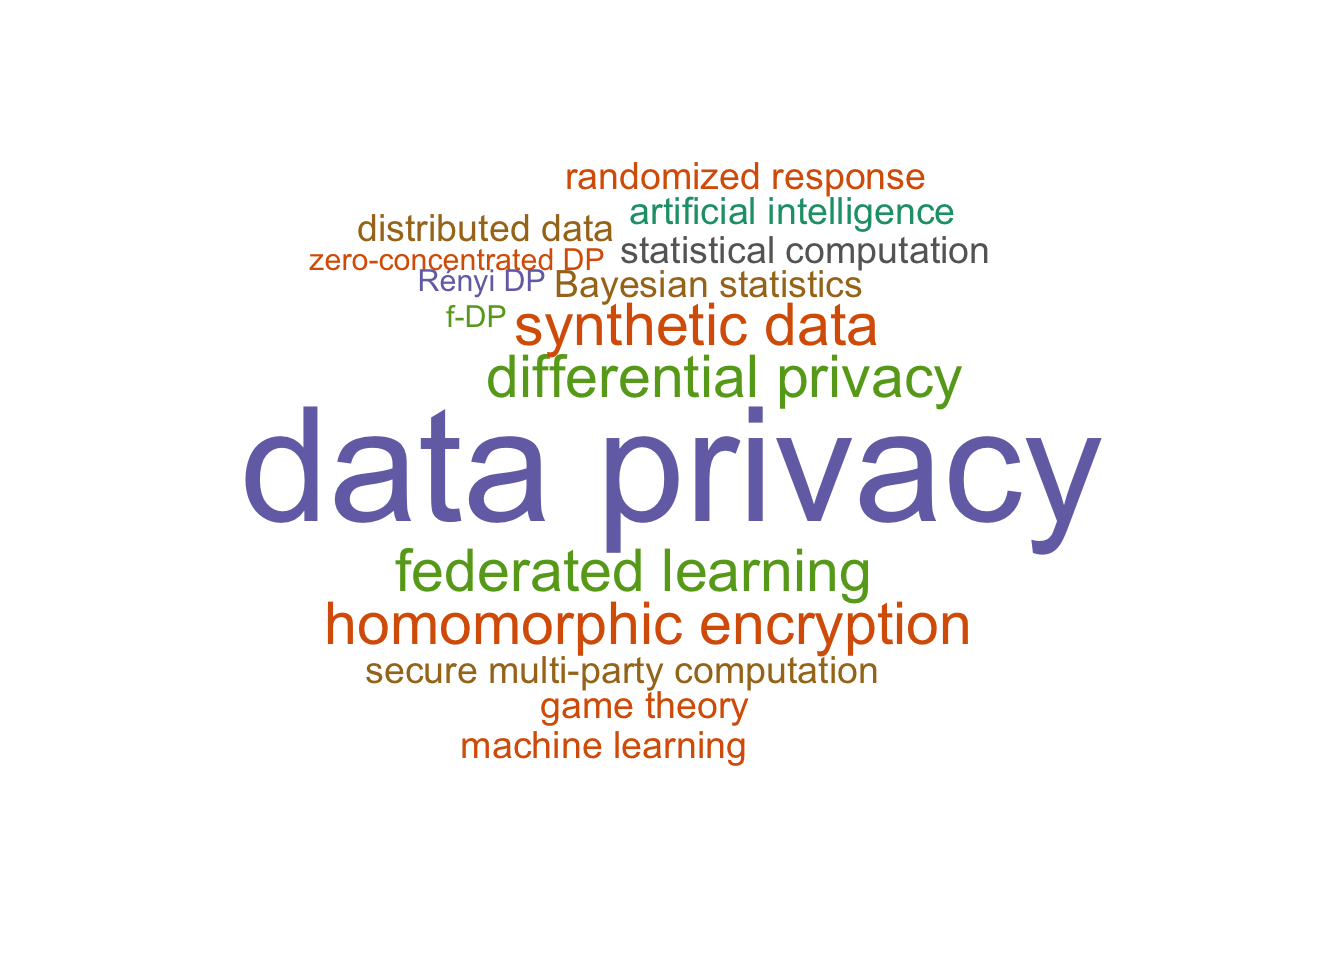
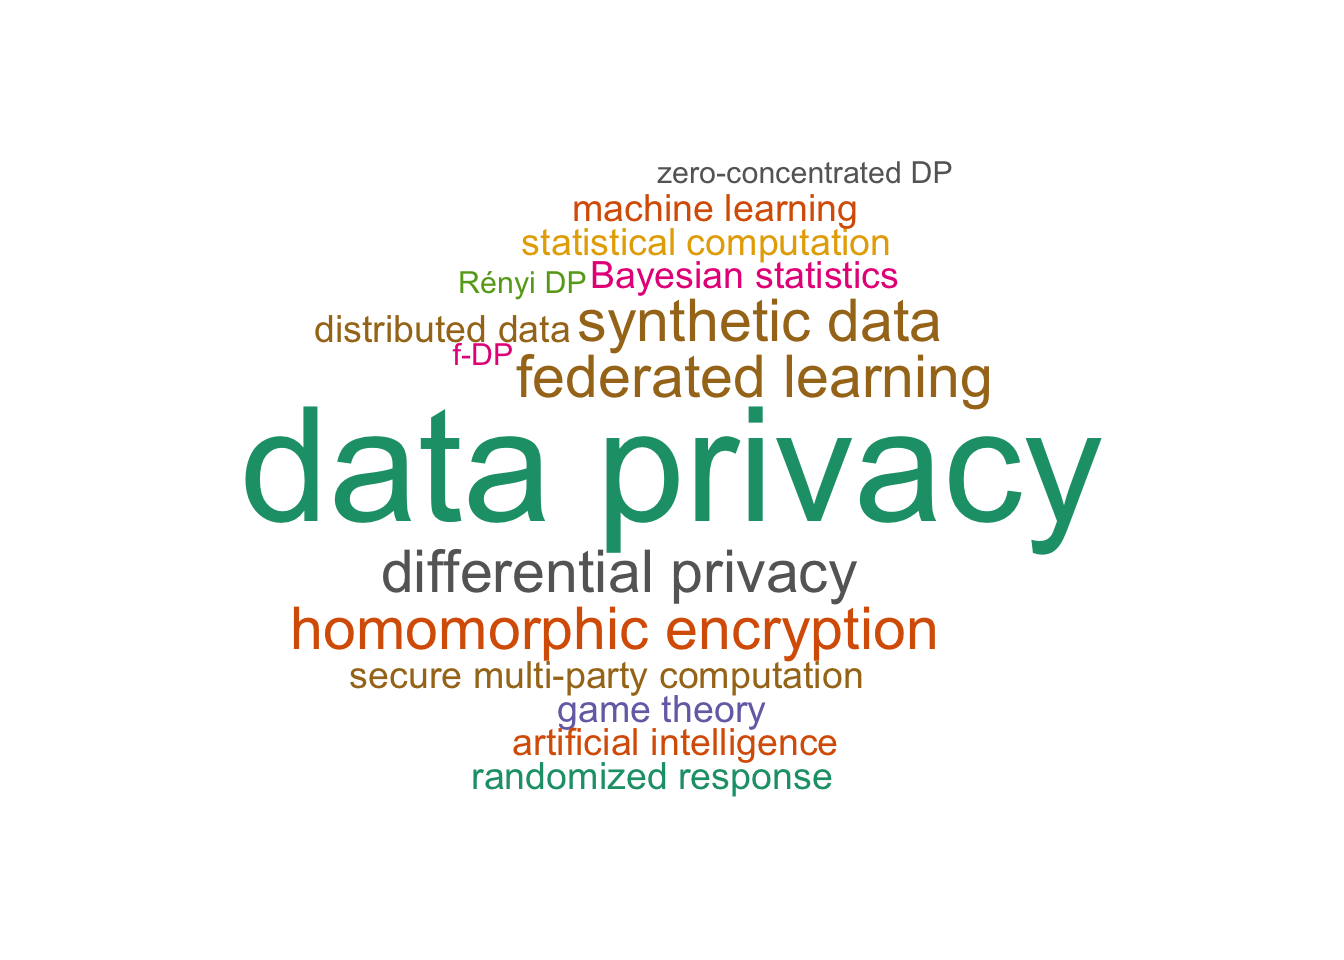
Schedule

Changed region(s): [[0.1562, 0.1562, 0.8125, 0.8438], [0.75, 0.5625, 0.7812, 0.5938]]

diff --git a/docs/schedule.html b/docs/schedule.html
@@ -139,7 +139,6 @@ ul.task-list li input[type="checkbox"] {
 </header>
 
 
-<p>Tentative schedule. Please check for updates as we get closer to the workshop date.</p>
 <section id="wednesday-26th-november" class="level3">
 <h3 class="anchored" data-anchor-id="wednesday-26th-november">Wednesday 26th November</h3>
 <table class="caption-top table">
